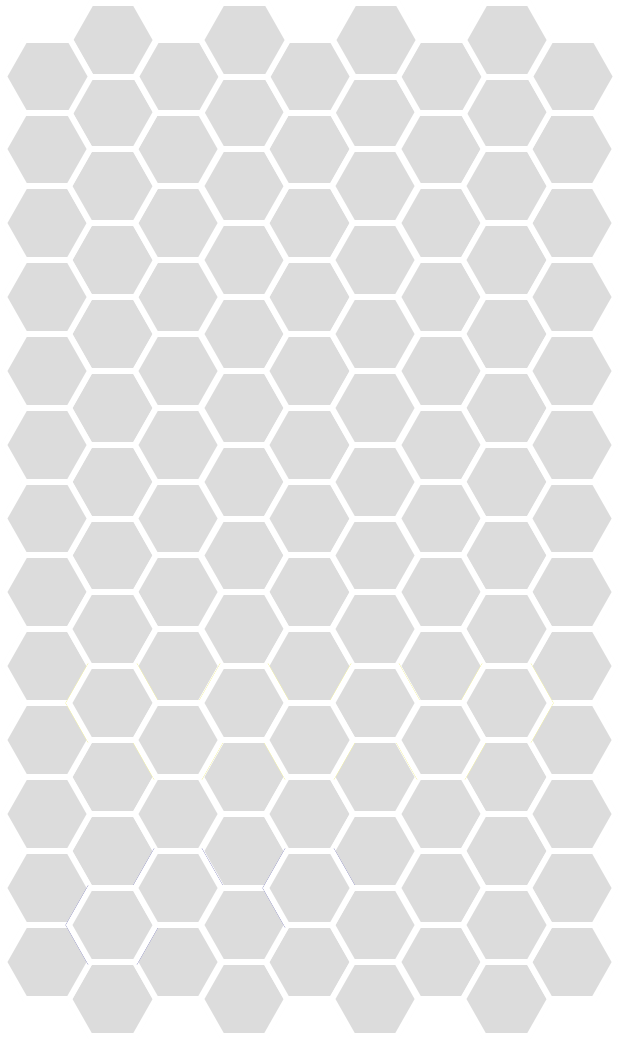
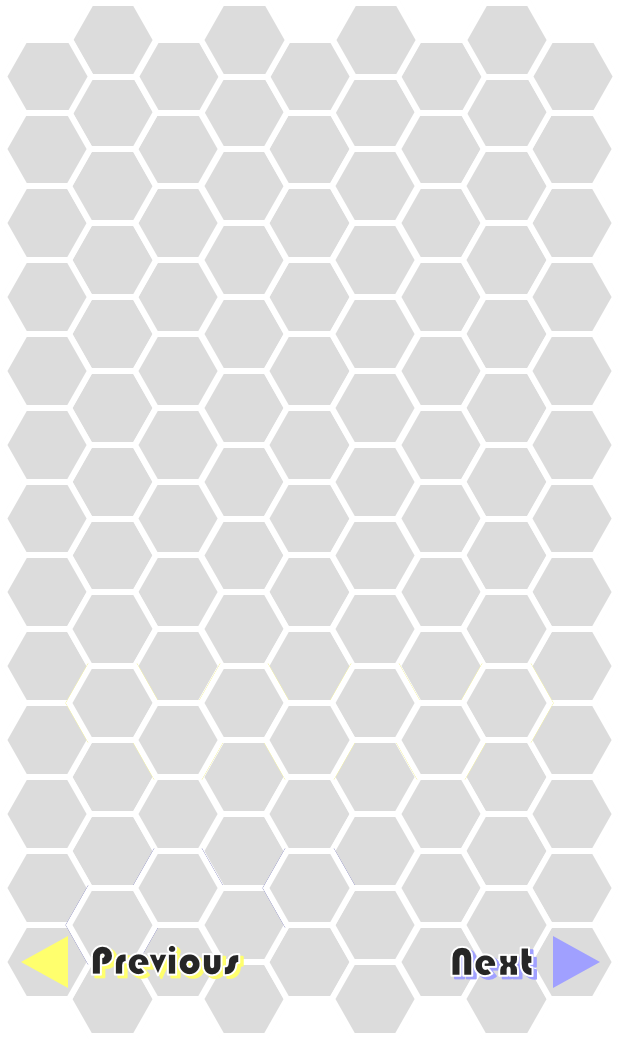
일단 How To Play 완성한듯

Changed region(s): [[0.1532, 0.8932, 0.3984, 0.9548], [0.7048, 0.8932, 0.95, 0.9548], [0.0306, 0.8932, 0.1226, 0.9548]]

diff --git a/Assets/Script/StartSceneController.cs b/Assets/Script/StartSceneController.cs
@@ -1,0 +1,32 @@
+using System.Collections;
+using System.Collections.Generic;
+using UnityEngine;
+
+public class StartSceneController : MonoBehaviour
+{
+    public GameObject HowToPlayPanel;
+    public GameObject HowToPlay1;
+    public GameObject HowToPlay2;
+
+    private void Start()
+    {
+        HowToPlay1.SetActive(true);
+        HowToPlay2.SetActive(false);
+        HowToPlayPanel.SetActive(false);
+    }
+
+    private void Update()
+    { }
+
+    public void Next()
+    {
+        HowToPlay1.SetActive(false);
+        HowToPlay2.SetActive(true);
+    }
+
+    public void Previous()
+    {
+        HowToPlay1.SetActive(true);
+        HowToPlay2.SetActive(false);
+    }
+}
